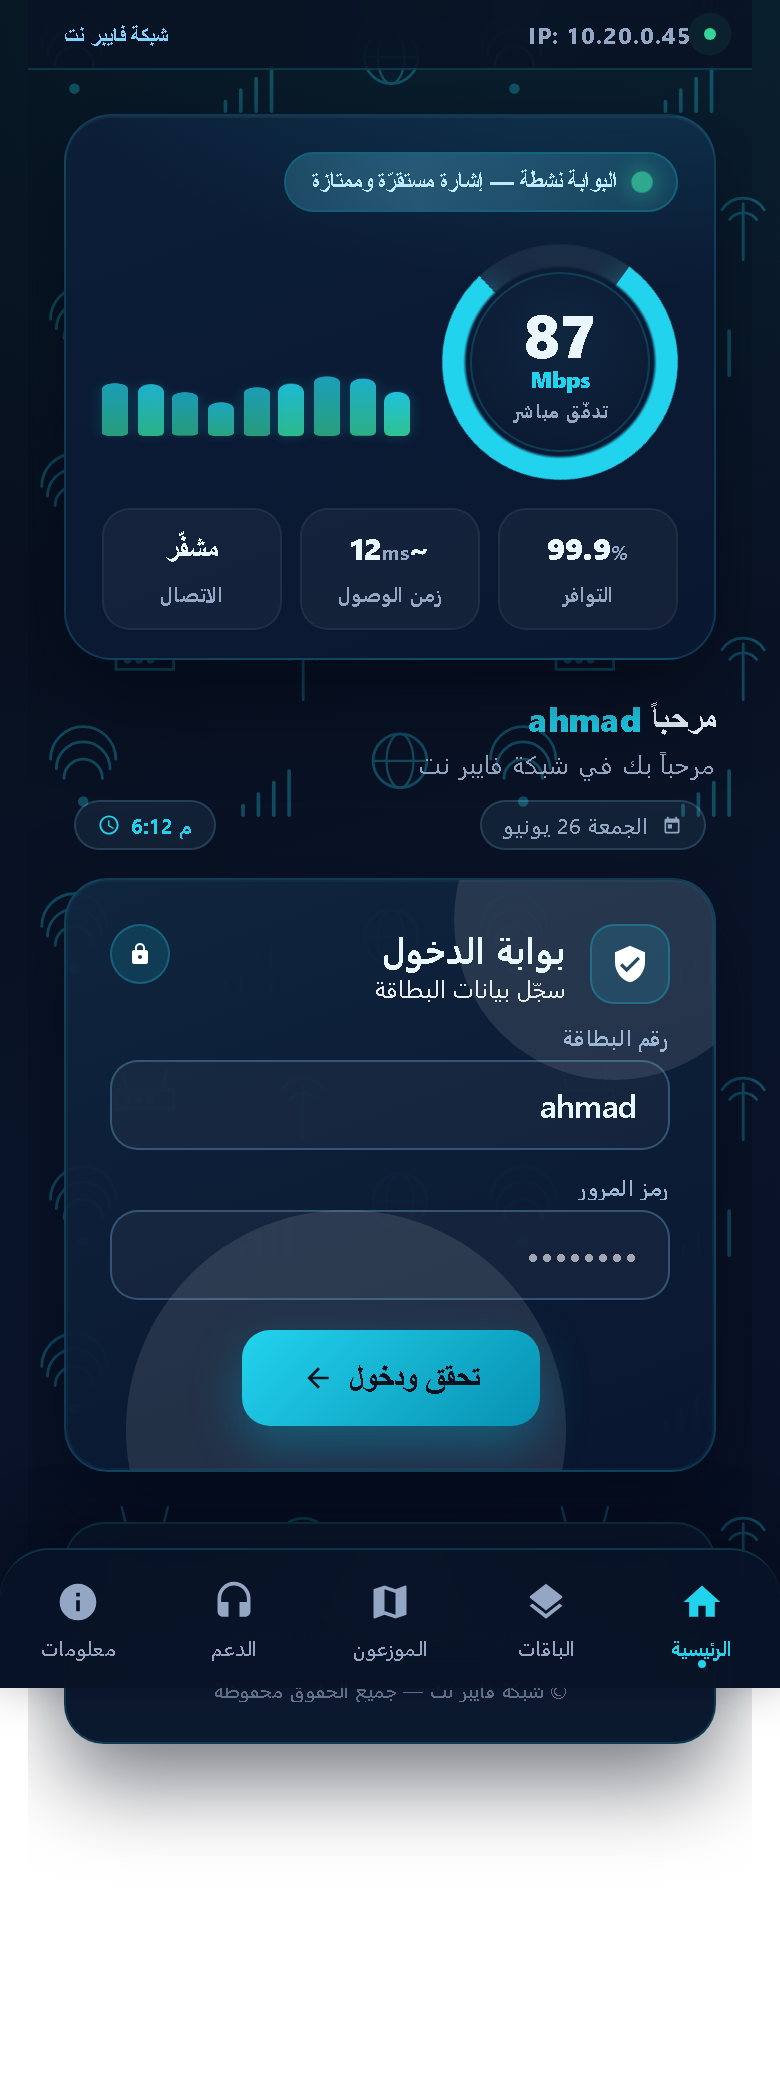
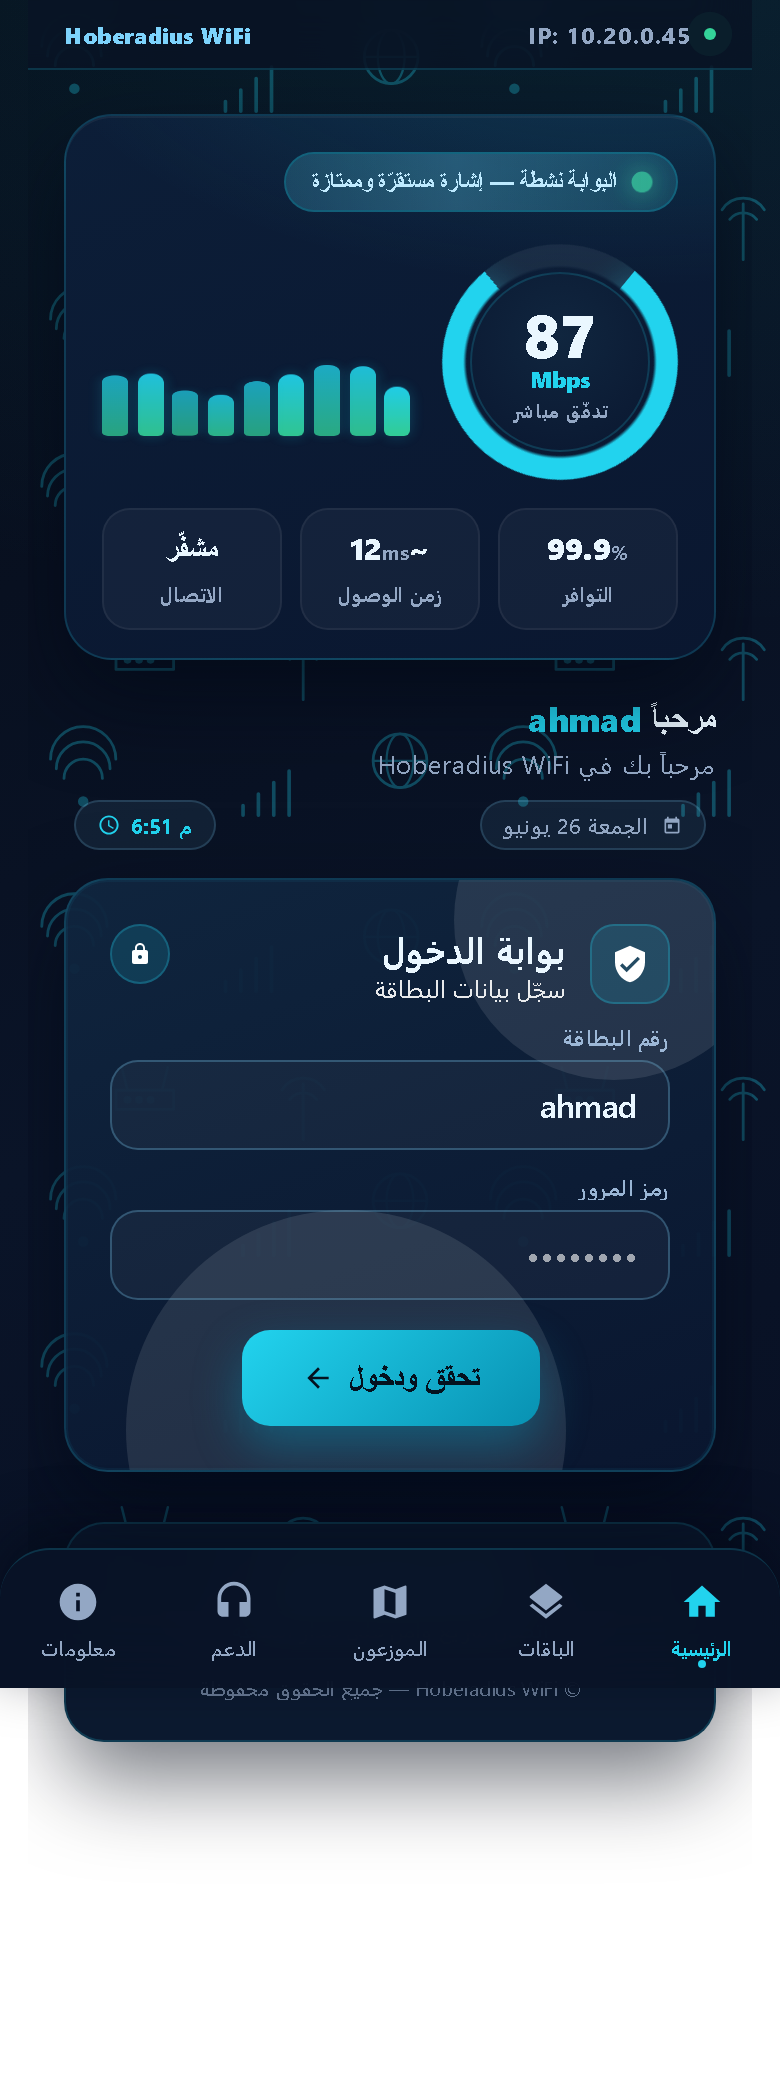
chore(hotspot): اسم معاينة محايد لقالب «البوابة الحيّة» (لا علامة عيّنة)
القالب يَستعمل {{TENANT_NAME}} الديناميكيّ في كل مكان (الترويسة/الترحيب/
التذييل/حقوق النشر) — لا علامة مخبوزة. لكن هارنس اللقطة كان يُمرّر اسم
عيّنة «شبكة فايبر نت» فظهر في لقطة المراجعة وأوحى بأنّه مخبوز. غُيّر اسم
العيّنة إلى «Hoberadius WiFi» (محايد) وأُعيد رسم اللقطة — فلا «فايبر نت»
في أيّ مكان، والاسم الحقيقيّ للشبكة يَظهر عند النشر.

diff --git a/tools/shot_live_portal.py b/tools/shot_live_portal.py
@@ -18,7 +18,9 @@ with app.app_context():
     from app.radius.db.migrations_runner import run_pending_migrations
     run_pending_migrations()
     from app.radius.services import hotspot_templates as ht
-    vals = {"TENANT_NAME": "شبكة فايبر نت", "ACCENT_COLOR": "#22D3EE",
+    # اسم محايد للمعاينة فقط (القالب يَستعمل {{TENANT_NAME}} الديناميكيّ — لا
+    # علامة عيّنة مخبوزة). يَظهر الاسم الحقيقيّ للشبكة عند النشر.
+    vals = {"TENANT_NAME": "Hoberadius WiFi", "ACCENT_COLOR": "#22D3EE",
             "BG_COLOR": "#0A1428", "WELCOME_TEXT": "اتصال سريع وآمن على مدار الساعة",
             "SUPPORT_PHONE": "0590000000", "MOTIF_ICON": "wifi"}
     html = ht.render("live_portal", vals, tenant_id=1)
